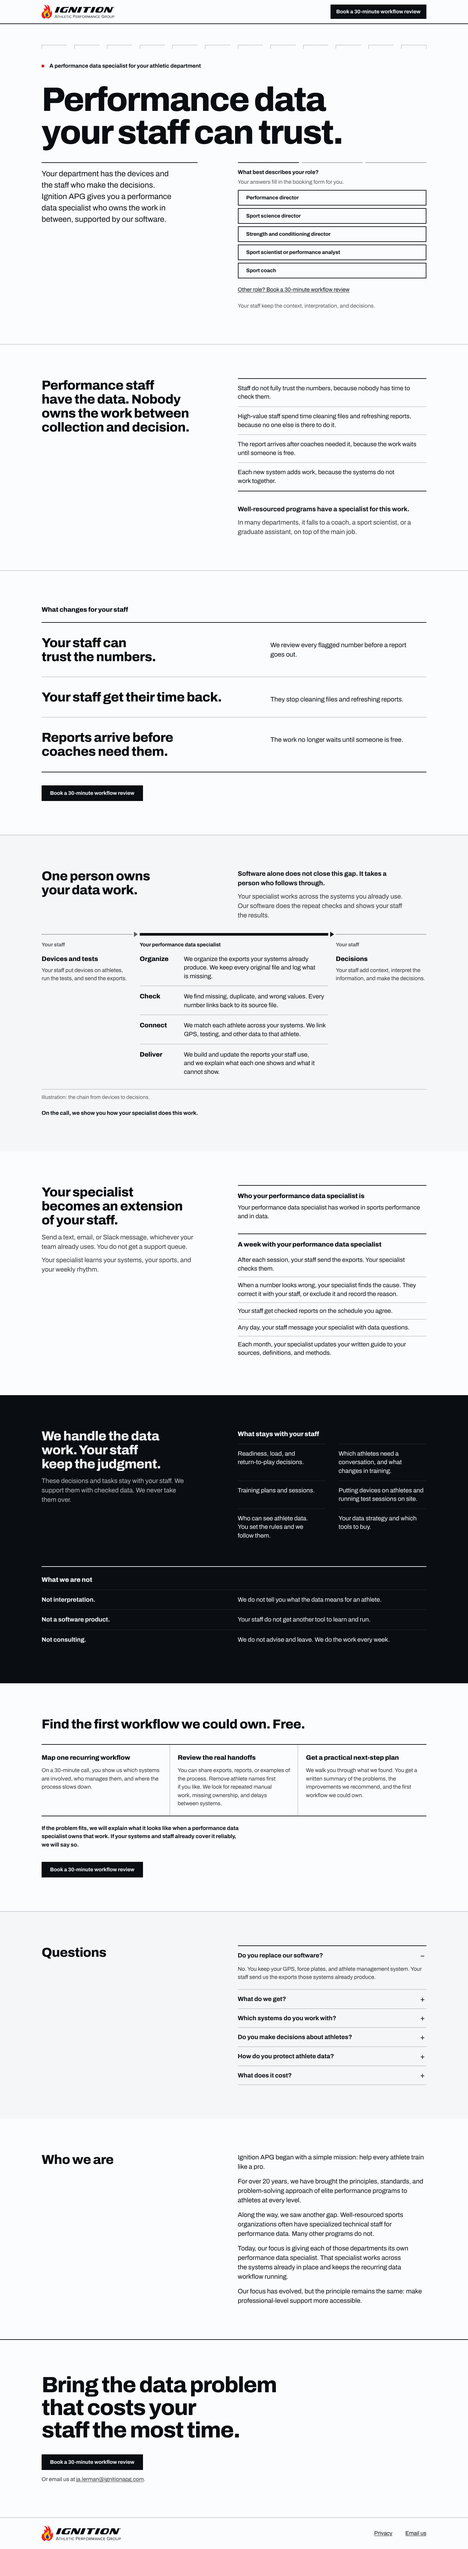
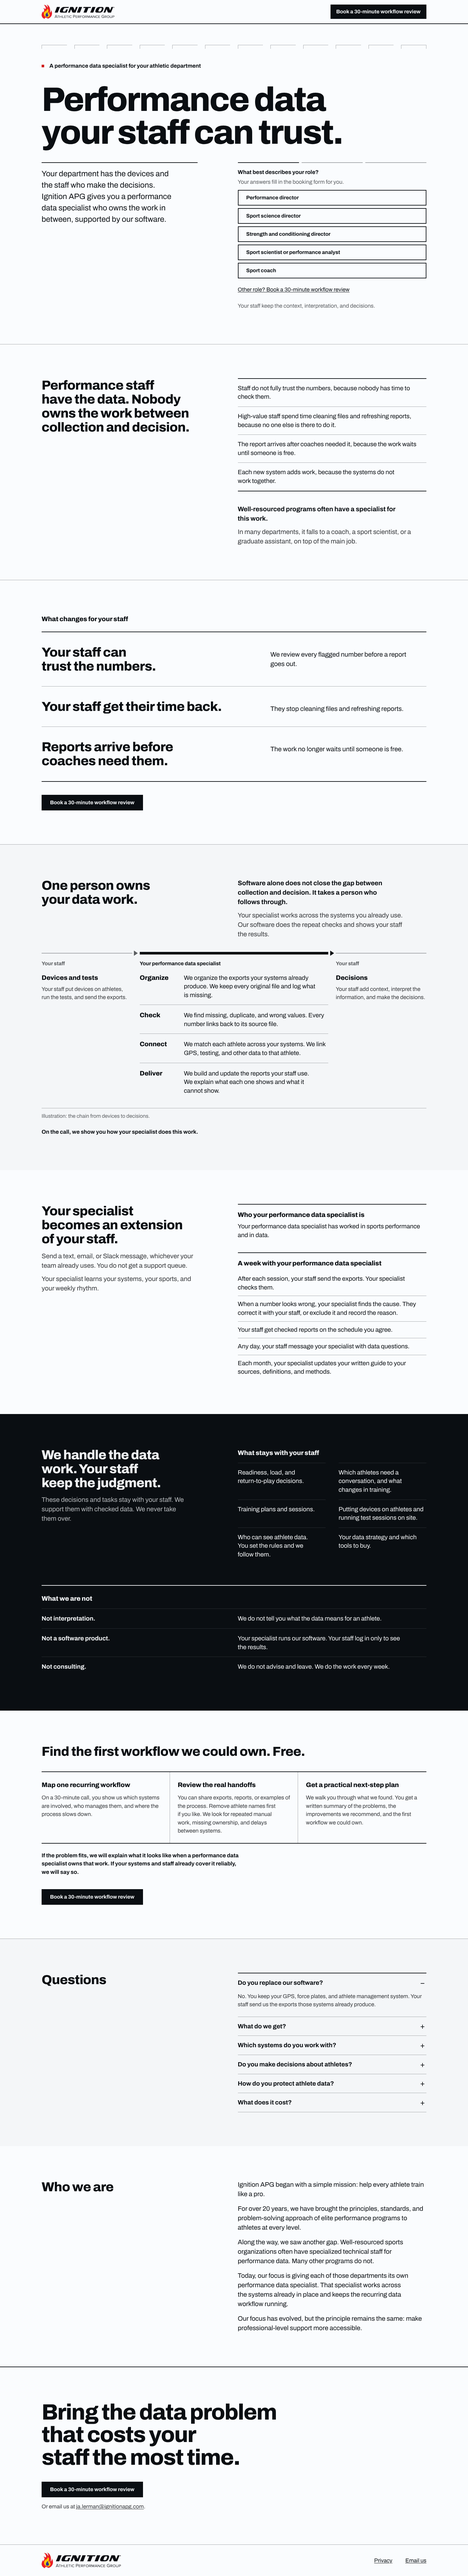
Apply Jake's six answers after the second review
- Not a software product no longer contradicts the platform login.
- A booking button under the chain on phones only.
- Often is in the contrast line. The gap is named.
- The Deliver line is two sentences.
- Picker choice: Cleaning files and refreshing reports.
- Message sheet, brief, booking, design, and status files updated.

Claude-Session: https://claude.ai/code/session_01YbS2qLg3YpJKDbeEJkZvbn

diff --git a/src/content/site.ts b/src/content/site.ts
@@ -45,7 +45,8 @@ export const rolePicker = {
     hint: "Choose the closest answer.",
     // Each choice fills the Calendly problem question. "Fix" is not used: BRIEF.md bans it for values.
     choices: [
-      "Exporting files and refreshing reports",
+      // 2026-11-13: "Exporting" became "Cleaning", because the staff still send the exports.
+      "Cleaning files and refreshing reports",
       "Finding missing or wrong data",
       "Connecting data from different systems",
       "Getting reports ready before coaches need them",
@@ -78,7 +79,7 @@ export const problem = {
     "Each new system adds work, because the systems do not work together.",
   ],
   contrast: [
-    "Well-resourced programs have a specialist for this work.",
+    "Well-resourced programs often have a specialist for this work.",
     "In many departments, it falls to a coach, a sport scientist, or a graduate assistant, on top of the main job.",
   ],
 };
@@ -101,7 +102,7 @@ export const chain = {
   heading: "One person owns your data work.",
   // The first line says why a person is needed (Jake, 2026-11-13).
   text: [
-    "Software alone does not close this gap. It takes a person who follows through.",
+    "Software alone does not close the gap between collection and decision. It takes a person who follows through.",
     "Your specialist works across the systems you already use. Our software does the repeat checks and shows your staff the results.",
   ],
   caption: "Illustration: the chain from devices to decisions.",
@@ -115,7 +116,7 @@ export const chain = {
     { verb: "Organize", text: "We organize the exports your systems already produce. We keep every original file and log what is missing." },
     { verb: "Check", text: "We find missing, duplicate, and wrong values. Every number links back to its source file." },
     { verb: "Connect", text: "We match each athlete across your systems. We link GPS, testing, and other data to that athlete." },
-    { verb: "Deliver", text: "We build and update the reports your staff use, and we explain what each one shows and what it cannot show." },
+    { verb: "Deliver", text: "We build and update the reports your staff use. We explain what each one shows and what it cannot show." },
   ],
   end: {
     title: "Decisions",
@@ -160,7 +161,7 @@ export const staysWithStaff = {
     heading: "What we are not",
     items: [
       { label: "Not interpretation.", text: "We do not tell you what the data means for an athlete." },
-      { label: "Not a software product.", text: "Your staff do not get another tool to learn and run." },
+      { label: "Not a software product.", text: "Your specialist runs our software. Your staff log in only to see the results." },
       { label: "Not consulting.", text: "We do not advise and leave. We do the work every week." },
     ],
   },

diff --git a/docs/MESSAGE.md b/docs/MESSAGE.md
@@ -19,7 +19,8 @@ Jake chose seven ideas from the copy brainstorm, after the 3000-foot view in `do
 - **The four verbs are Organize, Check, Connect, Deliver** everywhere (Jake, 2026-11-13). They replace Collect, Check, Connect, Explain.
 - **Section 3b** has a new heading, taken from Jake's own first sentence: "Your specialist becomes an extension of your staff." Lines now said in section 3 are gone from 3b.
 - **Section 4:** the six lines now sit under their own label, "What stays with your staff", and the text above them is plainer. Three "What we are not" lines sit in their own row below, each with a bold label (Jake approved these words on 2026-11-13).
-- **Section 3** opens with why a person is needed: "Software alone does not close this gap. It takes a person who follows through." (Jake approved, 2026-11-13).
+- **Section 3** opens with why a person is needed: "Software alone does not close the gap between collection and decision. It takes a person who follows through." (Jake approved, 2026-11-13).
+- **After the second review (Jake, six yes answers, 2026-11-13):** "Not a software product" no longer contradicts the platform login. A booking button sits under the chain on phones. "often" is in the contrast line. The Deliver line is two sentences. The picker choice "Exporting files and refreshing reports" is now "Cleaning files and refreshing reports".
 - **Said once:** "works across the systems you already use" and "our software does the repeat checks" each appear in one section now. "Who we are" paragraph three is shorter, because the problem section makes the same point.
 
 ## What changed in v8 (Jake, 2026-10-13, round 4)
@@ -107,7 +108,7 @@ The role picker (three taps, Jake, 2026-10-16) is unchanged. Its words are in `s
 | Symptom | High-value staff spend time cleaning files and refreshing reports, because no one else is there to do it. |
 | Symptom | The report arrives after coaches needed it, because the work waits until someone is free. |
 | Symptom | Each new system adds work, because the systems do not work together. |
-| Contrast | Well-resourced programs have a specialist for this work. |
+| Contrast | Well-resourced programs often have a specialist for this work. |
 | Contrast | In many departments, it falls to a coach, a sport scientist, or a graduate assistant, on top of the main job. |
 
 The contrast uses Jake's facts from round 4 ("Who we are"). It says "many", not "most". There is no button in this section now.
@@ -134,7 +135,7 @@ On the page this section is the chain, under the heading "One person owns your d
 | Element | Copy |
 |---|---|
 | Heading | One person owns your data work. |
-| Text | Software alone does not close this gap. It takes a person who follows through. |
+| Text | Software alone does not close the gap between collection and decision. It takes a person who follows through. |
 | Text | Your specialist works across the systems you already use. Our software does the repeat checks and shows your staff the results. |
 | Owner label | Your staff |
 | Start | Devices and tests |
@@ -147,12 +148,13 @@ On the page this section is the chain, under the heading "One person owns your d
 | Group | Connect |
 | Item | We match each athlete across your systems. We link GPS, testing, and other data to that athlete. |
 | Group | Deliver |
-| Item | We build and update the reports your staff use, and we explain what each one shows and what it cannot show. |
+| Item | We build and update the reports your staff use. We explain what each one shows and what it cannot show. |
 | Owner label | Your staff |
 | End | Decisions |
 | End text | Your staff add context, interpret the information, and make the decisions. |
 | Caption | Illustration: the chain from devices to decisions. |
 | Closing line | On the call, we show you how your specialist does this work. |
+| Button (phones only) | Book a 30-minute workflow review |
 
 The chain shows no numbers and carries the label "Illustration" (hard rule 10).
 
@@ -191,7 +193,7 @@ A role, not a person: no name, no photo, no avatar, no icon. The week is an orde
 | Not label | Not interpretation. |
 | Not | We do not tell you what the data means for an athlete. |
 | Not label | Not a software product. |
-| Not | Your staff do not get another tool to learn and run. |
+| Not | Your specialist runs our software. Your staff log in only to see the results. |
 | Not label | Not consulting. |
 | Not | We do not advise and leave. We do the work every week. |
 
@@ -314,7 +316,7 @@ This is for you, not for the page. Row numbers follow the table in `docs/BRIEF.m
 | Organize | We organize the exports your systems already produce. We keep every original file and log what is missing. | Row 1 (the exports from your systems; "collect" became "organize" on 2026-11-13). Row 2 (keep every original file, log what is missing). |
 | Check | We find missing, duplicate, and wrong values. Every number links back to its source file. | Row 3 (find missing, duplicate, and wrong values). Row 5, first sentence. |
 | Connect | We match each athlete across your systems. We link GPS, testing, and other data to that athlete. | Row 6 (match each athlete). Row 8 (link GPS, testing, and other data). |
-| Deliver | We build and update the reports your staff use, and we explain what each one shows and what it cannot show. | Row 9 (build and update reports). Row 10 (what each report shows and cannot show). |
+| Deliver | We build and update the reports your staff use. We explain what each one shows and what it cannot show. | Row 9 (build and update reports). Row 10 (what each report shows and cannot show). |
 
 Confirmed rows that sit elsewhere on the page:
 

diff --git a/docs/DESIGN.md b/docs/DESIGN.md
@@ -55,7 +55,7 @@ There is one accent. There are no gradients, no shadows, and no rounded corners.
 | Problem rows | Heading left. Symptoms as rows with hairlines on the right, between 2 px ink rules. Below them the contrast: one bold line, then one neutral line (2026-11-13). No button here. |
 | Sticky headings (2026-10-13) | From 64rem only, and only in Problem, the specialist section, and Who we are, where the right column is much longer. The left block pins 96 px from the top, under the header, and lets go at its section end. No script. |
 | Outcome rows ("What changes for your staff", 2026-11-13) | A full-width block after the problem section. The heading is a small label (lead size, 800 weight). Three rows between 2 px ink rules, with hairlines between rows: the outcome at section-heading size in columns 1 to 6, its supporting line at lead size in columns 8 to 12. One column below 64rem. Then the booking button. It is the only place where a third-level heading is larger than its section heading, because the outcomes are the statement. |
-| The chain ("One person owns your data work.", 2026-11-13) | Replaces the grouped list. On the quiet band. Heading left and two lead lines right (the first bold, the second neutral), then a figure across the grid: an ordered list of three parts. Each part has an owner label (16 px bold, the heading of its part), then small headings and text. The middle part ("Your performance data specialist") sits under an 8 px ink bar and holds four rows: the verb as a small heading and its one line, with hairlines between rows. From 40rem the verb sits left of its line (a 7rem column). **From 64rem:** the parts sit on one line in columns 1 to 3, 4 to 9, and 10 to 12. The two staff parts go quiet: a 2 px `rule-2` line and a muted owner label. A small arrowhead sits centred in each gutter, muted after the first part and ink after the middle. **Below 64rem:** the parts stack 64 px apart. The staff parts carry a 2 px ink rule and an ink owner label, and a 40 px stem with an arrowhead joins each part to the next, so the hand-back to the staff is plain (review, 2026-11-13). The caption "Illustration: the chain from devices to decisions." is muted 16 px text, under a hairline from 64rem. No numbers, no icons, no fills. Then the closing line in bold. |
+| The chain ("One person owns your data work.", 2026-11-13) | Replaces the grouped list. On the quiet band. Heading left and two lead lines right (the first bold, the second neutral), then a figure across the grid: an ordered list of three parts. Each part has an owner label (16 px bold, the heading of its part), then small headings and text. The middle part ("Your performance data specialist") sits under an 8 px ink bar and holds four rows: the verb as a small heading and its one line, with hairlines between rows. From 40rem the verb sits left of its line (a 7rem column). **From 64rem:** the parts sit on one line in columns 1 to 3, 4 to 9, and 10 to 12. The two staff parts go quiet: a 2 px `rule-2` line and a muted owner label. A small arrowhead sits centred in each gutter, muted after the first part and ink after the middle. **Below 64rem:** the parts stack 64 px apart. The staff parts carry a 2 px ink rule and an ink owner label, and a 40 px stem with an arrowhead joins each part to the next, so the hand-back to the staff is plain (review, 2026-11-13). The caption "Illustration: the chain from devices to decisions." is muted 16 px text, under a hairline from 64rem. No numbers, no icons, no fills. Then the closing line in bold. Below 30rem, where the header button is hidden, a full-width booking button follows it (Jake, 2026-11-13). |
 | Specialist section (2026-10-13) | Heading and two short paragraphs left (2026-11-13).  On the right, two groups under 2 px ink rules: "Who your performance data specialist is" (plain list) and "A week with your performance data specialist" (ordered list, hairline between rows, no visible numerals). No photos, avatars, faces, or icons. |
 | Ink band ("We handle the data work") | The one dark section. Heading and text left on ink. On the right, the small heading "What stays with your staff" over six items in two columns, each with an `ink-2` hairline above it. Below both, under a 2 px `on-ink` rule (the ink rule, inverted), the small heading "What we are not" and three rows, each with an `ink-2` hairline above it: a bold label at list-item size in columns 1 to 5 and its sentence in columns 7 to 12, on one baseline (2026-11-13). One column below 64rem. |
 | Step columns ("Find the first workflow we could own. Free.") | Three columns divided by vertical hairlines. Titles carry the order, with no numerals. The closing line sits under a rule. Then a booking button, so phone visitors can book at the moment they decide. The other mid-page button sits under the outcome rows (2026-11-13). Stacks to rows on phones. |

diff --git a/docs/STATUS.md b/docs/STATUS.md
@@ -11,7 +11,7 @@ Last updated: 2026-11-13
 
 ## In progress (2026-11-13): outcomes, the chain, and seven copy ideas
 
-**A draft is built on the branch `claude/zen-bardeen-kl4lxp`. Jake approved every word. It is not live until he merges it.** The live site (`main`) has not changed.
+**The work is on the branch `claude/zen-bardeen-kl4lxp`, in a pull request. Jake approved every word. It is not live until he merges it.** The live site (`main`) has not changed.
 
 - **Why:** Jake found the page went from the problem straight into task detail. He asked what Ignition APG does at the 3000-foot level, approved that explanation (`docs/POSITIONING.md`), and chose all seven ideas from the copy brainstorm. He said the line "we sell that owner: one specialist who runs the middle, with software to do the repetitive parts" must be clear on the page.
 - **What the draft changes** (words in `docs/MESSAGE.md` v9, decisions in `docs/BRIEF.md`, layout in `docs/DESIGN.md`):
@@ -34,16 +34,17 @@ Last updated: 2026-11-13
     - Dark band: the three "not" labels are quieter than the two headings.
     - Symptom order is now trust, time, late report, systems, so the three outcomes answer the first three in order. No words changed.
     - Lists keep their list role for screen readers.
-  - **Waiting on Jake (each changes approved wording or adds a button):**
-    - "Not a software product." Its sentence says staff get no tool, but "What do we get?" says staff log in to our platform. Proposed: "Your specialist runs our software. Your staff log in only to see the results."
-    - A booking button under the chain's closing line, on phones only. Today there are about six phone screens with no way to book.
-    - "Well-resourced programs often have a specialist for this work." (adds "often", to match Jake's stated fact).
-    - "Software alone does not close the gap between collection and decision." (names the gap).
+  - **Approved by Jake (six yes answers) and built:**
+    - "Not a software product. Your specialist runs our software. Your staff log in only to see the results."
+    - A booking button under the chain's closing line, on phones only.
+    - "Well-resourced programs often have a specialist for this work."
+    - "Software alone does not close the gap between collection and decision."
     - The Deliver line as two sentences.
-    - Picker choice "Exporting files and refreshing reports" becomes "Cleaning files and refreshing reports", because staff still send the exports.
-- **Also waiting on Jake:**
+    - Picker choice "Cleaning files and refreshing reports" (was "Exporting…"). `docs/BOOKING.md` matches. The Calendly question is free text, so Jake changes nothing in Calendly.
+- **Waiting on Jake:**
+  - Merge the pull request when ready. He clicks merge himself. Vercel then publishes `main`.
+  - After the merge: open the live site on a phone, tap through the hero picker with "Cleaning files and refreshing reports", and check that Calendly opens with it filled in.
   - Whether the page needs a line for departments with no AMS (not blocking).
-- **Pull request:** Jake said yes. Open it after his answers to the list above. He clicks merge himself.
 - **Checks on the draft:** `npm run check` passes (copy and claims). `node scripts/audit.mjs` passes: axe 0 violations, Lighthouse 100 on home and privacy, no sideways scroll. Kill AI Slop scan: no signals. `docs/final/home-1440.png` and `home-390.png` show the draft.
 - **Earlier in this session:** a first draft of the outcomes section had the same three reviews on a private preview. Their fixes are in this draft.
 - **`scripts/check-claims.mjs`** now reads a claim line from a paragraph as well as a list item.

diff --git a/docs/BRIEF.md b/docs/BRIEF.md
@@ -83,7 +83,14 @@ These override everything below where they conflict. Jake approved the ideas fir
    - The second outcome's supporting line stays "They stop cleaning files and refreshing reports." for now.
    - "High-value staff" stays in the symptom line. "Expensive people doing clerical work" is not used.
    - "Managed data operations" and "the unglamorous middle" stay off the site. Jake wants them saved for marketing. They are in `docs/POSITIONING.md`.
-9. **Rejected on purpose:** "without another AMS", "no dashboards", any hours-per-week figure, "before morning lift", and any line about readiness reports. They break the hard rules or are not true.
+9. **After the second independent review (Jake, six yes answers, 2026-11-13):**
+   - "Not a software product. Your specialist runs our software. Your staff log in only to see the results." The earlier sentence contradicted "Your staff log in to our platform to see the results."
+   - A booking button under the chain's closing line, on phones only (event section "chain").
+   - "Well-resourced programs often have a specialist for this work."
+   - "Software alone does not close the gap between collection and decision. It takes a person who follows through."
+   - Deliver: "We build and update the reports your staff use. We explain what each one shows and what it cannot show."
+   - Picker choice: "Cleaning files and refreshing reports" replaces "Exporting files and refreshing reports", because the staff still send the exports. This overrides the problem choices in the 2026-10-16 section below.
+10. **Rejected on purpose:** "without another AMS", "no dashboards", any hours-per-week figure, "before morning lift", and any line about readiness reports. They break the hard rules or are not true.
 
 ## Changes from Jake, 2026-10-16 (hero picker, "How it starts", hero words)
 

diff --git a/docs/BOOKING.md b/docs/BOOKING.md
@@ -53,7 +53,7 @@ Role (`a1`):
 - Sport coach
 
 Problem (`a3`). "Something else" sends no problem, so the box is empty:
-- Exporting files and refreshing reports
+- Cleaning files and refreshing reports
 - Finding missing or wrong data
 - Connecting data from different systems
 - Getting reports ready before coaches need them
